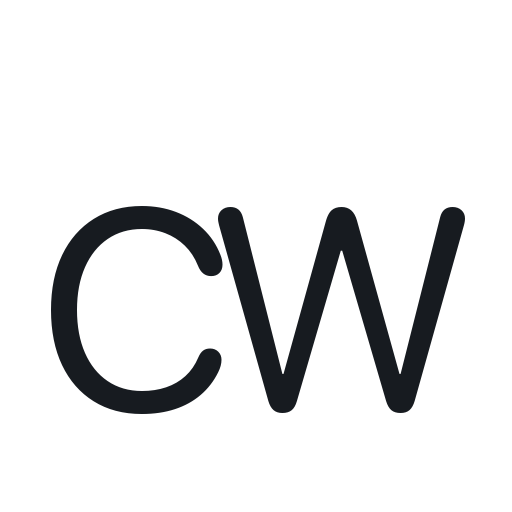
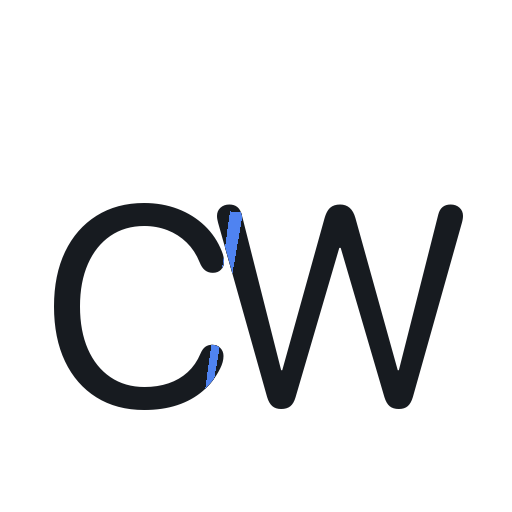
commit

diff --git a/electron/main.js b/electron/main.js
@@ -35,11 +35,8 @@ function themedMonochromeAssetPath(name) {
 }
 
 function createTrayIcon() {
-  const trayPath = process.platform === 'darwin'
-    ? path.join(BRAND_ASSET_DIR, 'cw-icon-white.png')
-    : themedMonochromeAssetPath('cw-icon');
+  const trayPath = themedMonochromeAssetPath('cw-icon');
   const image = nativeImage.createFromPath(trayPath).resize({ width: 18, height: 18 });
-  image.setTemplateImage(process.platform === 'darwin');
   return image;
 }
 

diff --git a/assets/brand/generate_brand_assets.py b/assets/brand/generate_brand_assets.py
@@ -1,0 +1,205 @@
+from __future__ import annotations
+
+from pathlib import Path
+from xml.sax.saxutils import escape
+
+from PIL import Image, ImageDraw, ImageFont
+
+
+ROOT = Path(__file__).resolve().parent
+PNG_DIR = ROOT / "png"
+PNG_DIR.mkdir(parents=True, exist_ok=True)
+
+FONT_PATH = "/System/Library/Fonts/SFNSRounded.ttf"
+BLUE = "#4F83F1"
+LIGHT_TEXT = "#171B20"
+DARK_TEXT = "#F7F8F8"
+
+
+def text_bbox(font: ImageFont.FreeTypeFont, text: str) -> tuple[int, int, int, int]:
+    probe = Image.new("L", (10, 10), 0)
+    draw = ImageDraw.Draw(probe)
+    return draw.textbbox((0, 0), text, font=font)
+
+
+def tracked_width(draw: ImageDraw.ImageDraw, text: str, font: ImageFont.FreeTypeFont, tracking: int) -> int:
+    width = 0
+    for index, char in enumerate(text):
+      left, _, right, _ = draw.textbbox((0, 0), char, font=font)
+      width += right - left
+      if index < len(text) - 1:
+          width += tracking
+    return width
+
+
+def draw_tracked_text(
+    draw: ImageDraw.ImageDraw,
+    origin: tuple[float, float],
+    text: str,
+    font: ImageFont.FreeTypeFont,
+    fill: str,
+    tracking: int,
+) -> list[tuple[float, float, float, float]]:
+    x, y = origin
+    boxes: list[tuple[float, float, float, float]] = []
+    for char in text:
+        box = draw.textbbox((x, y), char, font=font)
+        draw.text((x, y), char, font=font, fill=fill)
+        boxes.append(box)
+        x = box[2] + tracking
+    return boxes
+
+
+def draw_tracked_mask(
+    draw: ImageDraw.ImageDraw,
+    origin: tuple[float, float],
+    text: str,
+    font: ImageFont.FreeTypeFont,
+    tracking: int,
+) -> list[tuple[float, float, float, float]]:
+    x, y = origin
+    boxes: list[tuple[float, float, float, float]] = []
+    for char in text:
+        box = draw.textbbox((x, y), char, font=font)
+        draw.text((x, y), char, font=font, fill=255)
+        boxes.append(box)
+        x = box[2] + tracking
+    return boxes
+
+
+def apply_clipped_overlay(
+    image: Image.Image,
+    alpha_mask: Image.Image,
+    polygon: list[tuple[float, float]],
+    fill: str,
+) -> None:
+    overlay = Image.new("RGBA", image.size, (0, 0, 0, 0))
+    overlay_draw = ImageDraw.Draw(overlay)
+    overlay_draw.polygon(polygon, fill=fill)
+    clipped = Image.new("RGBA", image.size, (0, 0, 0, 0))
+    clipped.paste(overlay, mask=alpha_mask)
+    image.alpha_composite(clipped)
+
+
+def save_svg(
+    filename: str,
+    width: int,
+    height: int,
+    text: str,
+    font_size: int,
+    tracking: float,
+    text_color: str,
+    accent_polygon: list[tuple[float, float]],
+    text_x: float,
+    text_y: float,
+) -> None:
+    points = " ".join(f"{x:.2f},{y:.2f}" for x, y in accent_polygon)
+    content = f"""<svg width="{width}" height="{height}" viewBox="0 0 {width} {height}" fill="none" xmlns="http://www.w3.org/2000/svg">
+  <rect width="{width}" height="{height}" fill="none"/>
+  <defs>
+    <clipPath id="logo-clip">
+      <text x="{text_x:.2f}" y="{text_y:.2f}" font-family="'SF Pro Rounded','SF Compact Rounded','SF Pro Display','Helvetica Neue',Arial,sans-serif" font-size="{font_size}" font-weight="820" letter-spacing="{tracking}em">{escape(text)}</text>
+    </clipPath>
+  </defs>
+  <text x="{text_x:.2f}" y="{text_y:.2f}" font-family="'SF Pro Rounded','SF Compact Rounded','SF Pro Display','Helvetica Neue',Arial,sans-serif" font-size="{font_size}" font-weight="820" letter-spacing="{tracking}em" fill="{text_color}">{escape(text)}</text>
+  <g clip-path="url(#logo-clip)">
+    <polygon points="{points}" fill="{BLUE}"/>
+  </g>
+</svg>
+"""
+    (ROOT / filename).write_text(content, encoding="utf-8")
+
+
+def render_icon(filename: str, text_color: str, svg_name: str) -> None:
+    size = 512
+    image = Image.new("RGBA", (size, size), (0, 0, 0, 0))
+    draw = ImageDraw.Draw(image)
+    font = ImageFont.truetype(FONT_PATH, 284)
+    tracking = -28
+    text = "CW"
+
+    width = tracked_width(draw, text, font, tracking)
+    left, top, right, bottom = text_bbox(font, text)
+    height = bottom - top
+    origin = ((size - width) / 2, (size - height) / 2 - 20)
+
+    alpha_mask = Image.new("L", image.size, 0)
+    mask_draw = ImageDraw.Draw(alpha_mask)
+    boxes = draw_tracked_mask(mask_draw, origin, text, font, tracking)
+    draw_tracked_text(draw, origin, text, font, text_color, tracking)
+
+    c_box, w_box = boxes
+    accent_polygon = [
+        (c_box[2] - 6, c_box[1] + 8),
+        (w_box[0] + 34, w_box[1] + 8),
+        (w_box[0] + 2, w_box[3] - 12),
+        (w_box[0] - 4, w_box[3] - 12),
+    ]
+    apply_clipped_overlay(image, alpha_mask, accent_polygon, BLUE)
+    image.save(PNG_DIR / filename)
+
+    save_svg(
+        svg_name,
+        size,
+        size,
+        text,
+        284,
+        -0.092,
+        text_color,
+        accent_polygon,
+        origin[0],
+        origin[1] + font.size,
+    )
+
+
+def render_wordmark(filename: str, text_color: str, svg_name: str) -> None:
+    width_px, height_px = 1600, 320
+    image = Image.new("RGBA", (width_px, height_px), (0, 0, 0, 0))
+    draw = ImageDraw.Draw(image)
+    font = ImageFont.truetype(FONT_PATH, 214)
+    tracking = -15
+    text = "CoWorker"
+
+    width = tracked_width(draw, text, font, tracking)
+    left, top, right, bottom = text_bbox(font, text)
+    height = bottom - top
+    origin = ((width_px - width) / 2, (height_px - height) / 2 - 16)
+
+    alpha_mask = Image.new("L", image.size, 0)
+    mask_draw = ImageDraw.Draw(alpha_mask)
+    boxes = draw_tracked_mask(mask_draw, origin, text, font, tracking)
+    draw_tracked_text(draw, origin, text, font, text_color, tracking)
+
+    w_box = boxes[2]
+    accent_polygon = [
+        (w_box[0] + 34, w_box[1] + 14),
+        (w_box[0] + 98, w_box[1] + 14),
+        (w_box[0] + 66, w_box[3] - 8),
+        (w_box[0] + 4, w_box[3] - 8),
+    ]
+    apply_clipped_overlay(image, alpha_mask, accent_polygon, BLUE)
+    image.save(PNG_DIR / filename)
+
+    save_svg(
+        svg_name,
+        width_px,
+        height_px,
+        text,
+        214,
+        -0.07,
+        text_color,
+        accent_polygon,
+        origin[0],
+        origin[1] + font.size,
+    )
+
+
+def main() -> None:
+    render_icon("cw-icon-black.png", LIGHT_TEXT, "cw-icon-black.svg")
+    render_icon("cw-icon-white.png", DARK_TEXT, "cw-icon-white.svg")
+    render_wordmark("coworker-logo-black.png", LIGHT_TEXT, "coworker-logo-black.svg")
+    render_wordmark("coworker-logo-white.png", DARK_TEXT, "coworker-logo-white.svg")
+
+
+if __name__ == "__main__":
+    main()
